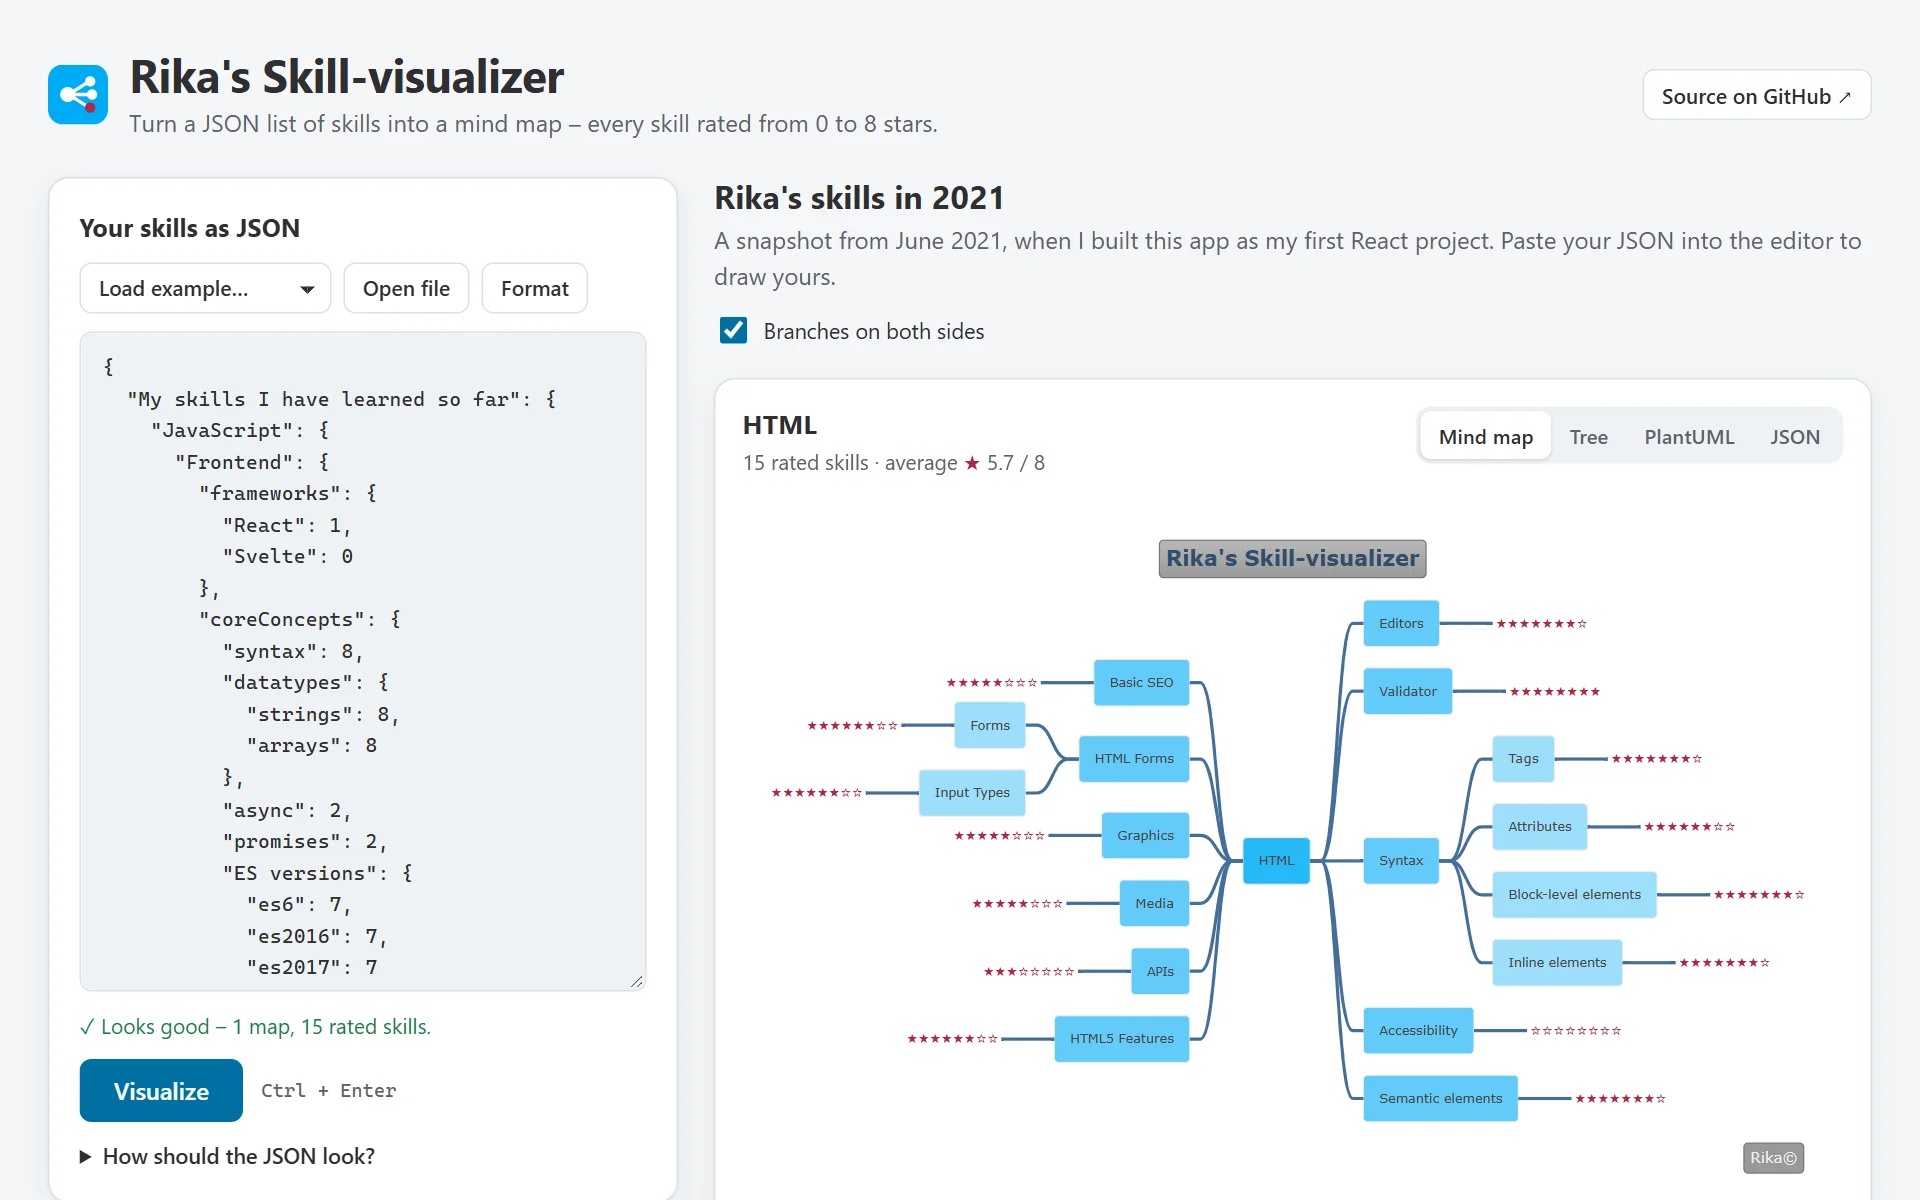
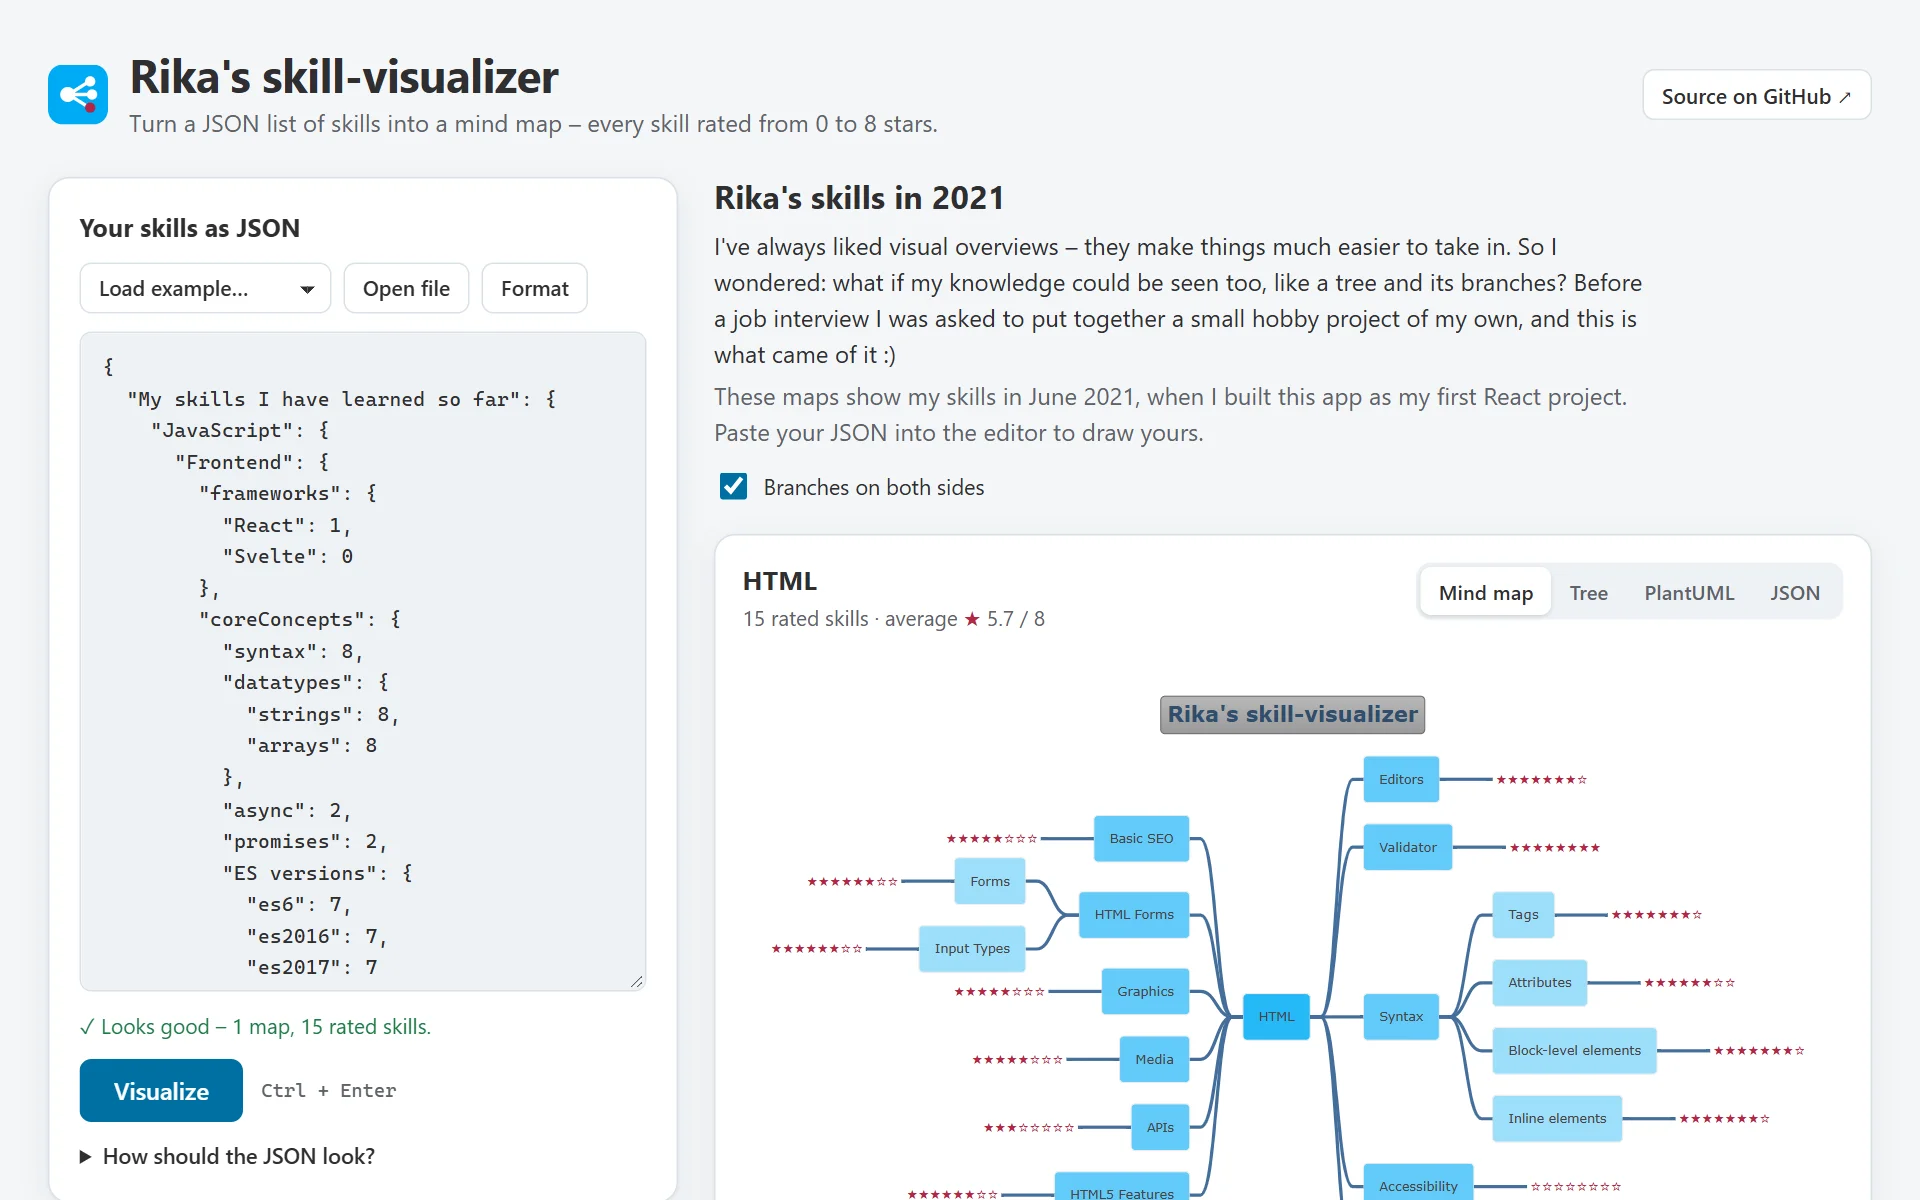
feat: light theme only, the story behind the app, lowercase name (#5)
- Light theme only, also when the system or the browser prefers dark
- The start page and the README tell the story behind the app
- skill-visualizer in lowercase, like my other projects
- Every link opens in a new tab

diff --git a/src/App.jsx b/src/App.jsx
@@ -6,7 +6,7 @@ import { parseSkillJson } from './lib/parseInput'
 import { getStats } from './lib/skillMap'
 
 const DRAFT_KEY = 'skill-visualizer:draft'
-const REPO_URL = 'https://github.com/mazsola739/Skill-visualizer'
+const REPO_URL = 'https://github.com/mazsola739/skill-visualizer'
 const PORTFOLIO_URL = 'https://mazsola739.github.io/mazsola739/'
 
 // localStorage can be unavailable (private mode, blocked storage) – the app works without it.
@@ -66,7 +66,7 @@ const App = () => {
         <div className="brand">
           <img src="./favicon.svg" alt="" width="40" height="40" />
           <div>
-            <h1>Rika's Skill-visualizer</h1>
+            <h1>Rika's skill-visualizer</h1>
             <p>Turn a JSON list of skills into a mind map – every skill rated from 0 to 8 stars.</p>
           </div>
         </div>
@@ -91,11 +91,21 @@ const App = () => {
               <h2 id="results-title">
                 {isRika ? "Rika's skills in 2021" : `Your ${view.maps.length > 1 ? 'mind maps' : 'mind map'}`}
               </h2>
-              <p className="muted">
-                {isRika
-                  ? 'A snapshot from June 2021, when I built this app as my first React project. Paste your JSON into the editor to draw yours.'
-                  : 'Edit the JSON and press Visualize again to update.'}
-              </p>
+              {isRika ? (
+                <>
+                  <p className="muted story">
+                    I've always liked visual overviews – they make things much easier to take in. So I wondered: what
+                    if my knowledge could be seen too, like a tree and its branches? Before a job interview I was asked
+                    to put together a small hobby project of my own, and this is what came of it :)
+                  </p>
+                  <p className="muted">
+                    These maps show my skills in June 2021, when I built this app as my first React project. Paste your
+                    JSON into the editor to draw yours.
+                  </p>
+                </>
+              ) : (
+                <p className="muted">Edit the JSON and press Visualize again to update.</p>
+              )}
             </div>
             <div className="results-tools">
               <label className="toggle">
@@ -121,7 +131,10 @@ const App = () => {
         <a href="https://plantuml.com" target="_blank" rel="noreferrer">
           PlantUML
         </a>{' '}
-        · <a href={PORTFOLIO_URL}>mazsola739 portfolio</a>
+        ·{' '}
+        <a href={PORTFOLIO_URL} target="_blank" rel="noreferrer">
+          mazsola739 portfolio
+        </a>
       </footer>
     </div>
   )

diff --git a/src/styles.css b/src/styles.css
@@ -1,5 +1,6 @@
 :root {
-  color-scheme: light dark;
+  /* Light only: "only" also stops browsers from repainting the page with their own dark mode. */
+  color-scheme: only light;
 
   --brand: #00abf5;
   --star: #b22746;
@@ -23,26 +24,6 @@
   --shadow: 0 1px 2px rgb(16 24 40 / 0.05), 0 6px 20px rgb(16 24 40 / 0.06);
   --mono: ui-monospace, 'Cascadia Code', 'Fira Code', Consolas, Menlo, monospace;
   --sans: system-ui, -apple-system, 'Segoe UI', Roboto, 'Helvetica Neue', Arial, sans-serif;
-}
-
-@media (prefers-color-scheme: dark) {
-  :root {
-    --star: #ff7a96;
-    --bg: #101316;
-    --surface: #191d21;
-    --surface-2: #22282e;
-    --text: #e6e8eb;
-    --muted: #a3aab2;
-    --border: #2d343b;
-    --link: #5cc8ff;
-    --primary-bg: #4cc2fb;
-    --primary-fg: #04263a;
-    --ok: #6fd39b;
-    --error: #ff8f86;
-    --error-bg: #3a1e1c;
-    --paper: #f7f9fa;
-    --shadow: 0 1px 2px rgb(0 0 0 / 0.3), 0 6px 20px rgb(0 0 0 / 0.25);
-  }
 }
 
 *,
@@ -389,6 +370,12 @@ select.button {
 
 .results-head p {
   margin: 4px 0 0;
+  max-width: 72ch;
+}
+
+.results-head .story {
+  margin-top: 8px;
+  color: var(--text);
 }
 
 .results-tools {

diff --git a/src/lib/skillMap.js b/src/lib/skillMap.js
@@ -136,7 +136,7 @@ const balancedSplit = (children) => {
  * @param {object} data skill JSON
  * @param {{ title?: string, footer?: string, balanced?: boolean, theme?: string }} options
  */
-export const toPlantUml = (data, { title = "Rika's Skill-visualizer", footer = 'Rika©', balanced = true, theme = 'spacelab' } = {}) => {
+export const toPlantUml = (data, { title = "Rika's skill-visualizer", footer = 'Rika©', balanced = true, theme = 'spacelab' } = {}) => {
   const roots = toTree(data)
   // +1 because ratings/notes are drawn one level below their skill.
   const maxDepth = depthOf(roots) + 1

diff --git a/index.html b/index.html
@@ -5,9 +5,10 @@
     <meta name="viewport" content="width=device-width, initial-scale=1" />
     <meta name="description" content="Turn a JSON list of skills into a mind map with star ratings." />
     <meta name="theme-color" content="#00abf5" />
+    <meta name="color-scheme" content="only light" />
     <link rel="icon" type="image/svg+xml" href="./favicon.svg" />
     <link rel="manifest" href="./manifest.json" />
-    <title>Rika's Skill-visualizer</title>
+    <title>Rika's skill-visualizer</title>
   </head>
   <body>
     <noscript>You need to enable JavaScript to run this app.</noscript>

diff --git a/src/lib/skillMap.test.js b/src/lib/skillMap.test.js
@@ -78,7 +78,7 @@ describe('toPlantUml', () => {
   it('wraps the diagram in mindmap markers with title and legend', () => {
     const uml = lines({ Root: { A: 1 } })
     expect(uml[0]).toBe('@startmindmap')
-    expect(uml).toContain("title Rika's Skill-visualizer")
+    expect(uml).toContain("title Rika's skill-visualizer")
     expect(uml).toContain('  Rika©')
     expect(uml.at(-1)).toBe('@endmindmap')
   })

diff --git a/vite.config.js b/vite.config.js
@@ -2,7 +2,7 @@ import { defineConfig } from 'vite'
 import react from '@vitejs/plugin-react'
 
 export default defineConfig({
-  // Relative base so the build works both on GitHub Pages (/Skill-visualizer/) and locally.
+  // Relative base so the build works both on GitHub Pages (/skill-visualizer/) and locally.
   base: './',
   plugins: [react()],
   test: {

diff --git a/README.md b/README.md
@@ -1,18 +1,22 @@
-# Rika's Skill-visualizer
+# Rika's skill-visualizer
 
 My very first React app, from June 2021: it turns a JSON list of skills into a mind map, every skill rated from
 0 to 8 stars. Renovated in 2026 with Vite, React 19, tests and a new UI.
 
-**Live site:** https://mazsola739.github.io/Skill-visualizer/
+I've always liked visual overviews – they make things much easier to take in. So I wondered: what if my knowledge
+could be seen too, like a tree and its branches? Before a job interview I was asked to put together a small hobby
+project of my own, and this is what came of it :)
 
-![Skill-visualizer: the JSON editor on the left, Rika's HTML skill map from 2021 on the right](docs/screenshot.webp)
+**Live site:** https://mazsola739.github.io/skill-visualizer/
+
+![skill-visualizer: the JSON editor on the left, Rika's HTML skill map from 2021 on the right](docs/screenshot.webp)
 
 - Paste your skills as JSON, load an example or open a `.json` file – the editor checks it as you type.
 - Every map can be viewed as a **mind map** image, an ASCII **tree**, the generated **PlantUML** source or the
   **JSON** itself, and copied or opened as SVG / PNG.
 - Branches are split evenly to both sides of the map; deeper levels get lighter colors.
 - The page opens with my own skill maps from 2021 – a snapshot of what I knew when I built the app.
-- Light and dark theme follow the system, and the layout works on phones too.
+- Every link opens in a new tab, and the layout works on phones too.
 
 Part of my portfolio: https://mazsola739.github.io/mazsola739/
 
